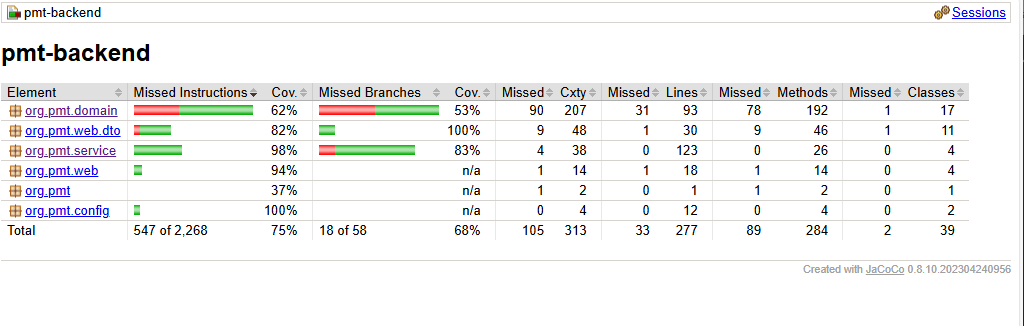
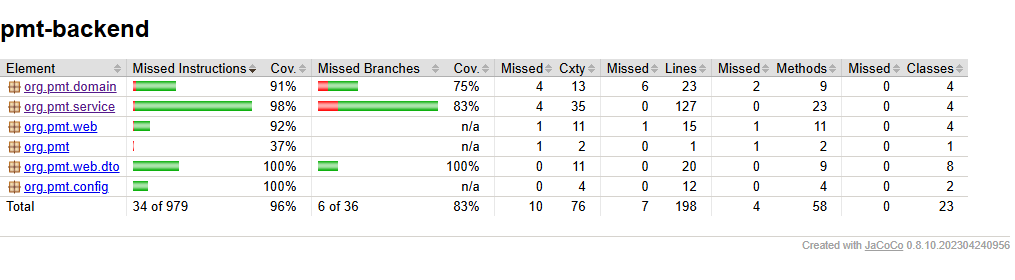
Update test report

Changed region(s): [[0.0, 0.0, 1.0, 0.9143]]

diff --git a/coverage-reports/index-backend.html b/coverage-reports/index-backend.html
@@ -1,1 +1,1 @@
-<?xml version="1.0" encoding="UTF-8"?><!DOCTYPE html PUBLIC "-//W3C//DTD XHTML 1.0 Strict//EN" "http://www.w3.org/TR/xhtml1/DTD/xhtml1-strict.dtd"><html xmlns="http://www.w3.org/1999/xhtml" lang="en"><head><meta http-equiv="Content-Type" content="text/html;charset=UTF-8"/><link rel="stylesheet" href="jacoco-resources/report.css" type="text/css"/><link rel="shortcut icon" href="jacoco-resources/report.gif" type="image/gif"/><title>pmt-backend</title><script type="text/javascript" src="jacoco-resources/sort.js"></script></head><body onload="initialSort(['breadcrumb', 'coveragetable'])"><div class="breadcrumb" id="breadcrumb"><span class="info"><a href="jacoco-sessions.html" class="el_session">Sessions</a></span><span class="el_report">pmt-backend</span></div><h1>pmt-backend</h1><table class="coverage" cellspacing="0" id="coveragetable"><thead><tr><td class="sortable" id="a" onclick="toggleSort(this)">Element</td><td class="down sortable bar" id="b" onclick="toggleSort(this)">Missed Instructions</td><td class="sortable ctr2" id="c" onclick="toggleSort(this)">Cov.</td><td class="sortable bar" id="d" onclick="toggleSort(this)">Missed Branches</td><td class="sortable ctr2" id="e" onclick="toggleSort(this)">Cov.</td><td class="sortable ctr1" id="f" onclick="toggleSort(this)">Missed</td><td class="sortable ctr2" id="g" onclick="toggleSort(this)">Cxty</td><td class="sortable ctr1" id="h" onclick="toggleSort(this)">Missed</td><td class="sortable ctr2" id="i" onclick="toggleSort(this)">Lines</td><td class="sortable ctr1" id="j" onclick="toggleSort(this)">Missed</td><td class="sortable ctr2" id="k" onclick="toggleSort(this)">Methods</td><td class="sortable ctr1" id="l" onclick="toggleSort(this)">Missed</td><td class="sortable ctr2" id="m" onclick="toggleSort(this)">Classes</td></tr></thead><tfoot><tr><td>Total</td><td class="bar">547 of 2,268</td><td class="ctr2">75%</td><td class="bar">18 of 58</td><td class="ctr2">68%</td><td class="ctr1">105</td><td class="ctr2">313</td><td class="ctr1">33</td><td class="ctr2">277</td><td class="ctr1">89</td><td class="ctr2">284</td><td class="ctr1">2</td><td class="ctr2">39</td></tr></tfoot><tbody><tr><td id="a2"><a href="org.pmt.domain/index.html" class="el_package">org.pmt.domain</a></td><td class="bar" id="b0"><img src="jacoco-resources/redbar.gif" width="45" height="10" title="461" alt="461"/><img src="jacoco-resources/greenbar.gif" width="74" height="10" title="762" alt="762"/></td><td class="ctr2" id="c4">62%</td><td class="bar" id="d0"><img src="jacoco-resources/redbar.gif" width="56" height="10" title="14" alt="14"/><img src="jacoco-resources/greenbar.gif" width="64" height="10" title="16" alt="16"/></td><td class="ctr2" id="e2">53%</td><td class="ctr1" id="f0">90</td><td class="ctr2" id="g0">207</td><td class="ctr1" id="h0">31</td><td class="ctr2" id="i1">93</td><td class="ctr1" id="j0">78</td><td class="ctr2" id="k0">192</td><td class="ctr1" id="l0">1</td><td class="ctr2" id="m0">17</td></tr><tr><td id="a5"><a href="org.pmt.web.dto/index.html" class="el_package">org.pmt.web.dto</a></td><td class="bar" id="b1"><img src="jacoco-resources/redbar.gif" width="6" height="10" title="69" alt="69"/><img src="jacoco-resources/greenbar.gif" width="31" height="10" title="319" alt="319"/></td><td class="ctr2" id="c3">82%</td><td class="bar" id="d2"><img src="jacoco-resources/greenbar.gif" width="16" height="10" title="4" alt="4"/></td><td class="ctr2" id="e0">100%</td><td class="ctr1" id="f1">9</td><td class="ctr2" id="g1">48</td><td class="ctr1" id="h1">1</td><td class="ctr2" id="i2">30</td><td class="ctr1" id="j1">9</td><td class="ctr2" id="k1">46</td><td class="ctr1" id="l1">1</td><td class="ctr2" id="m1">11</td></tr><tr><td id="a3"><a href="org.pmt.service/index.html" class="el_package">org.pmt.service</a></td><td class="bar" id="b2"><img src="jacoco-resources/greenbar.gif" width="48" height="10" title="491" alt="491"/></td><td class="ctr2" id="c1">98%</td><td class="bar" id="d1"><img src="jacoco-resources/redbar.gif" width="16" height="10" title="4" alt="4"/><img src="jacoco-resources/greenbar.gif" width="80" height="10" title="20" alt="20"/></td><td class="ctr2" id="e1">83%</td><td class="ctr1" id="f2">4</td><td class="ctr2" id="g2">38</td><td class="ctr1" id="h3">0</td><td class="ctr2" id="i0">123</td><td class="ctr1" id="j4">0</td><td class="ctr2" id="k2">26</td><td class="ctr1" id="l2">0</td><td class="ctr2" id="m2">4</td></tr><tr><td id="a4"><a href="org.pmt.web/index.html" class="el_package">org.pmt.web</a></td><td class="bar" id="b3"><img src="jacoco-resources/greenbar.gif" width="8" height="10" title="84" alt="84"/></td><td class="ctr2" id="c2">94%</td><td class="bar" id="d3"/><td class="ctr2" id="e3">n/a</td><td class="ctr1" id="f3">1</td><td class="ctr2" id="g3">14</td><td class="ctr1" id="h2">1</td><td class="ctr2" id="i3">18</td><td class="ctr1" id="j2">1</td><td class="ctr2" id="k3">14</td><td class="ctr1" id="l3">0</td><td class="ctr2" id="m3">4</td></tr><tr><td id="a0"><a href="org.pmt/index.html" class="el_package">org.pmt</a></td><td class="bar" id="b4"/><td class="ctr2" id="c5">37%</td><td class="bar" id="d4"/><td class="ctr2" id="e4">n/a</td><td class="ctr1" id="f4">1</td><td class="ctr2" id="g5">2</td><td class="ctr1" id="h4">0</td><td class="ctr2" id="i5">1</td><td class="ctr1" id="j3">1</td><td class="ctr2" id="k5">2</td><td class="ctr1" id="l4">0</td><td class="ctr2" id="m5">1</td></tr><tr><td id="a1"><a href="org.pmt.config/index.html" class="el_package">org.pmt.config</a></td><td class="bar" id="b5"><img src="jacoco-resources/greenbar.gif" width="6" height="10" title="62" alt="62"/></td><td class="ctr2" id="c0">100%</td><td class="bar" id="d5"/><td class="ctr2" id="e5">n/a</td><td class="ctr1" id="f5">0</td><td class="ctr2" id="g4">4</td><td class="ctr1" id="h5">0</td><td class="ctr2" id="i4">12</td><td class="ctr1" id="j5">0</td><td class="ctr2" id="k4">4</td><td class="ctr1" id="l5">0</td><td class="ctr2" id="m4">2</td></tr></tbody></table><div class="footer"><span class="right">Created with <a href="http://www.jacoco.org/jacoco">JaCoCo</a> 0.8.10.202304240956</span></div></body></html>
+<?xml version="1.0" encoding="UTF-8"?><!DOCTYPE html PUBLIC "-//W3C//DTD XHTML 1.0 Strict//EN" "http://www.w3.org/TR/xhtml1/DTD/xhtml1-strict.dtd"><html xmlns="http://www.w3.org/1999/xhtml" lang="en"><head><meta http-equiv="Content-Type" content="text/html;charset=UTF-8"/><link rel="stylesheet" href="jacoco-resources/report.css" type="text/css"/><link rel="shortcut icon" href="jacoco-resources/report.gif" type="image/gif"/><title>pmt-backend</title><script type="text/javascript" src="jacoco-resources/sort.js"></script></head><body onload="initialSort(['breadcrumb', 'coveragetable'])"><div class="breadcrumb" id="breadcrumb"><span class="info"><a href="jacoco-sessions.html" class="el_session">Sessions</a></span><span class="el_report">pmt-backend</span></div><h1>pmt-backend</h1><table class="coverage" cellspacing="0" id="coveragetable"><thead><tr><td class="sortable" id="a" onclick="toggleSort(this)">Element</td><td class="down sortable bar" id="b" onclick="toggleSort(this)">Missed Instructions</td><td class="sortable ctr2" id="c" onclick="toggleSort(this)">Cov.</td><td class="sortable bar" id="d" onclick="toggleSort(this)">Missed Branches</td><td class="sortable ctr2" id="e" onclick="toggleSort(this)">Cov.</td><td class="sortable ctr1" id="f" onclick="toggleSort(this)">Missed</td><td class="sortable ctr2" id="g" onclick="toggleSort(this)">Cxty</td><td class="sortable ctr1" id="h" onclick="toggleSort(this)">Missed</td><td class="sortable ctr2" id="i" onclick="toggleSort(this)">Lines</td><td class="sortable ctr1" id="j" onclick="toggleSort(this)">Missed</td><td class="sortable ctr2" id="k" onclick="toggleSort(this)">Methods</td><td class="sortable ctr1" id="l" onclick="toggleSort(this)">Missed</td><td class="sortable ctr2" id="m" onclick="toggleSort(this)">Classes</td></tr></thead><tfoot><tr><td>Total</td><td class="bar">34 of 979</td><td class="ctr2">96%</td><td class="bar">6 of 36</td><td class="ctr2">83%</td><td class="ctr1">10</td><td class="ctr2">76</td><td class="ctr1">7</td><td class="ctr2">198</td><td class="ctr1">4</td><td class="ctr2">58</td><td class="ctr1">0</td><td class="ctr2">23</td></tr></tfoot><tbody><tr><td id="a2"><a href="org.pmt.domain/index.html" class="el_package">org.pmt.domain</a></td><td class="bar" id="b0"><img src="jacoco-resources/redbar.gif" width="3" height="10" title="15" alt="15"/><img src="jacoco-resources/greenbar.gif" width="40" height="10" title="160" alt="160"/></td><td class="ctr2" id="c4">91%</td><td class="bar" id="d1"><img src="jacoco-resources/redbar.gif" width="10" height="10" title="2" alt="2"/><img src="jacoco-resources/greenbar.gif" width="30" height="10" title="6" alt="6"/></td><td class="ctr2" id="e2">75%</td><td class="ctr1" id="f0">4</td><td class="ctr2" id="g1">13</td><td class="ctr1" id="h0">6</td><td class="ctr2" id="i1">23</td><td class="ctr1" id="j0">2</td><td class="ctr2" id="k2">9</td><td class="ctr1" id="l0">0</td><td class="ctr2" id="m1">4</td></tr><tr><td id="a3"><a href="org.pmt.service/index.html" class="el_package">org.pmt.service</a></td><td class="bar" id="b1"><img src="jacoco-resources/redbar.gif" width="2" height="10" title="9" alt="9"/><img src="jacoco-resources/greenbar.gif" width="117" height="10" title="469" alt="469"/></td><td class="ctr2" id="c2">98%</td><td class="bar" id="d0"><img src="jacoco-resources/redbar.gif" width="20" height="10" title="4" alt="4"/><img src="jacoco-resources/greenbar.gif" width="100" height="10" title="20" alt="20"/></td><td class="ctr2" id="e1">83%</td><td class="ctr1" id="f1">4</td><td class="ctr2" id="g0">35</td><td class="ctr1" id="h2">0</td><td class="ctr2" id="i0">127</td><td class="ctr1" id="j3">0</td><td class="ctr2" id="k0">23</td><td class="ctr1" id="l1">0</td><td class="ctr2" id="m2">4</td></tr><tr><td id="a4"><a href="org.pmt.web/index.html" class="el_package">org.pmt.web</a></td><td class="bar" id="b2"><img src="jacoco-resources/redbar.gif" width="1" height="10" title="5" alt="5"/><img src="jacoco-resources/greenbar.gif" width="16" height="10" title="66" alt="66"/></td><td class="ctr2" id="c3">92%</td><td class="bar" id="d3"/><td class="ctr2" id="e3">n/a</td><td class="ctr1" id="f2">1</td><td class="ctr2" id="g2">11</td><td class="ctr1" id="h1">1</td><td class="ctr2" id="i3">15</td><td class="ctr1" id="j1">1</td><td class="ctr2" id="k1">11</td><td class="ctr1" id="l2">0</td><td class="ctr2" id="m3">4</td></tr><tr><td id="a0"><a href="org.pmt/index.html" class="el_package">org.pmt</a></td><td class="bar" id="b3"><img src="jacoco-resources/redbar.gif" width="1" height="10" title="5" alt="5"/></td><td class="ctr2" id="c5">37%</td><td class="bar" id="d4"/><td class="ctr2" id="e4">n/a</td><td class="ctr1" id="f3">1</td><td class="ctr2" id="g5">2</td><td class="ctr1" id="h3">0</td><td class="ctr2" id="i5">1</td><td class="ctr1" id="j2">1</td><td class="ctr2" id="k5">2</td><td class="ctr1" id="l3">0</td><td class="ctr2" id="m5">1</td></tr><tr><td id="a5"><a href="org.pmt.web.dto/index.html" class="el_package">org.pmt.web.dto</a></td><td class="bar" id="b4"><img src="jacoco-resources/greenbar.gif" width="46" height="10" title="185" alt="185"/></td><td class="ctr2" id="c0">100%</td><td class="bar" id="d2"><img src="jacoco-resources/greenbar.gif" width="20" height="10" title="4" alt="4"/></td><td class="ctr2" id="e0">100%</td><td class="ctr1" id="f4">0</td><td class="ctr2" id="g3">11</td><td class="ctr1" id="h4">0</td><td class="ctr2" id="i2">20</td><td class="ctr1" id="j4">0</td><td class="ctr2" id="k3">9</td><td class="ctr1" id="l4">0</td><td class="ctr2" id="m0">8</td></tr><tr><td id="a1"><a href="org.pmt.config/index.html" class="el_package">org.pmt.config</a></td><td class="bar" id="b5"><img src="jacoco-resources/greenbar.gif" width="15" height="10" title="62" alt="62"/></td><td class="ctr2" id="c1">100%</td><td class="bar" id="d5"/><td class="ctr2" id="e5">n/a</td><td class="ctr1" id="f5">0</td><td class="ctr2" id="g4">4</td><td class="ctr1" id="h5">0</td><td class="ctr2" id="i4">12</td><td class="ctr1" id="j5">0</td><td class="ctr2" id="k4">4</td><td class="ctr1" id="l5">0</td><td class="ctr2" id="m4">2</td></tr></tbody></table><div class="footer"><span class="right">Created with <a href="http://www.jacoco.org/jacoco">JaCoCo</a> 0.8.10.202304240956</span></div></body></html>
